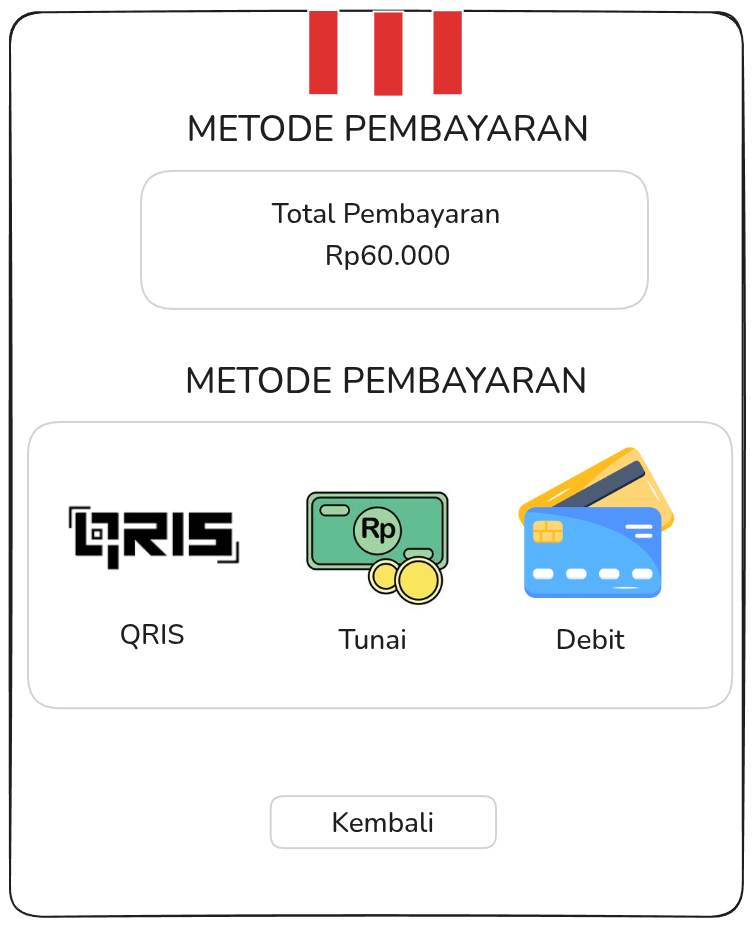
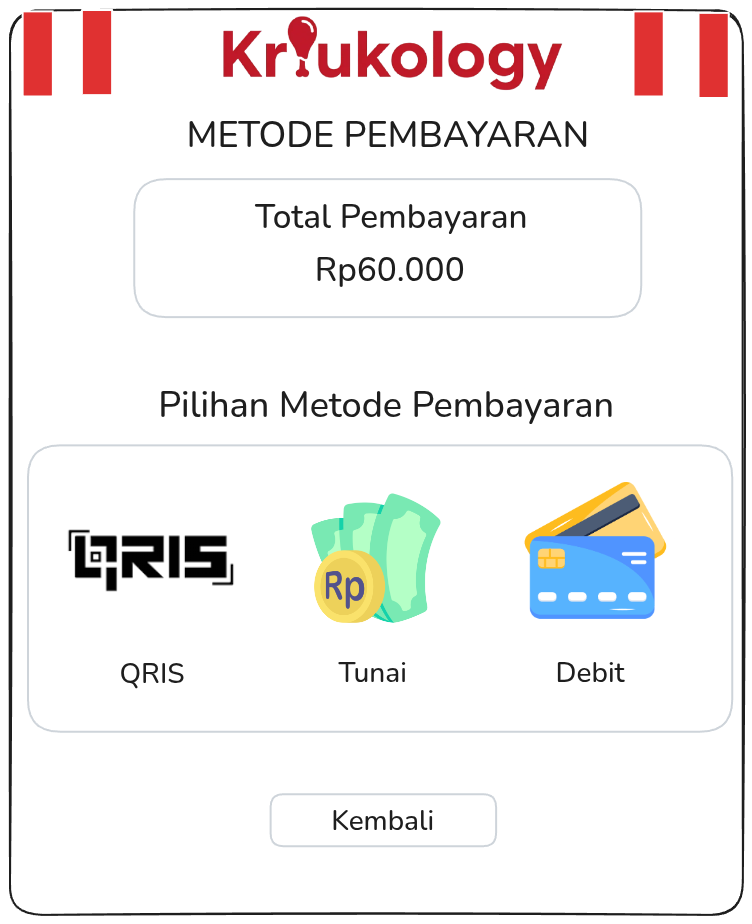
redesign halaman pembayaran

diff --git a/src/templates/pembayaran.js b/src/templates/pembayaran.js
@@ -4,62 +4,57 @@
  * ==========================================================================
  * Layar pemilihan metode pembayaran Kiosk Kriukology.
  * 100% Mengikuti Sketsa Layout Layar Pembayaran dari pengguna:
- * 1. Header Belang Logo Konsisten
- * 2. Judul METODE PEMBAYARAN
- * 3. Card Total Pembayaran (Soft Shadow White Card)
- * 4. Judul METODE PEMBAYARAN
- * 5. Card 3 Pilihan Metode (QRIS, Tunai, Debit)
- * 6. Tombol Kembali
+ * 1. Header Belang + Judul (identik halaman keranjang)
+ * 2. Card Total Pembayaran (Soft Shadow White Card, tanpa outline solid)
+ * 3. Judul Pilihan Metode Pembayaran
+ * 4. Card 3 Pilihan Metode (QRIS, Tunai, Debit) dengan gambar besar
+ * 5. Tombol Kembali (ikon panah merah seperti sidebar menu)
  * ==========================================================================
  */
 
 const templatePembayaran = `
-<div data-screen="pembayaran" style="display:none" class="h-full flex flex-col bg-[#f7f1e8] relative overflow-hidden">
+<div data-screen="pembayaran" style="display:none" class="h-full flex flex-col bg-white relative overflow-hidden">
 
-  <!-- 1. Header: Belang Kiri | Banner Logo Tengah (Putih) | Belang Kanan -->
-  <header class="shrink-0 h-[64px] flex items-stretch relative z-10 shadow-xs">
-    <!-- Sayap Kiri Belang -->
-    <div class="header-belang w-16 sm:w-20 shrink-0"></div>
-
-    <!-- Tengah Putih + Banner Logo -->
-    <div class="flex-1 bg-white flex items-center justify-center px-3">
-      <img src="/assets/kriukology/banner_kriukology.webp" alt="Kriukology"
-        class="h-11 max-w-[88%] object-contain drop-shadow-sm" />
+  <!-- 1. Header: identik halaman keranjang (Belang | Logo | Belang + Judul) -->
+  <header class="shrink-0">
+    <div class="h-[64px] flex items-stretch relative">
+      <div class="header-belang w-16 sm:w-20 shrink-0"></div>
+      <div class="flex-1 bg-white flex items-center justify-center px-3">
+        <img src="/assets/kriukology/banner_kriukology.webp" alt="Kriukology"
+          class="h-11 max-w-[88%] object-contain drop-shadow-sm" />
+      </div>
+      <div class="header-belang w-16 sm:w-20 shrink-0"></div>
     </div>
-
-    <!-- Sayap Kanan Belang -->
-    <div class="header-belang w-16 sm:w-20 shrink-0"></div>
+    <h1 class="display font-black text-xl sm:text-2xl text-center text-[#231f20] py-2" data-text="paymentTitle">METODE PEMBAYARAN</h1>
   </header>
 
   <!-- 2. Body Container (Memenuhi Layar, Centered Content) -->
-  <div class="flex-1 overflow-y-auto scroll-clean p-5 sm:p-6 flex flex-col items-center justify-between gap-4">
+  <div class="flex-1 min-h-0 overflow-y-auto scroll-clean px-4 sm:px-8 pt-2 pb-6 flex flex-col items-center justify-between gap-6">
 
-    <!-- Section Atas: Judul + Card Total Pembayaran -->
-    <div class="w-full flex flex-col items-center gap-2.5 mt-2">
-      <h2 class="display text-base sm:text-lg font-black tracking-wider text-[#231f20] uppercase">METODE PEMBAYARAN</h2>
-      
-      <!-- Card Total Pembayaran (Clean Soft Shadow, White Card) -->
-      <div class="w-full bg-white rounded-2xl py-5 px-4 text-center shadow-[0_8px_24px_rgba(42,36,36,0.06)] border border-stone-100">
-        <p class="text-xs sm:text-sm font-semibold text-stone-600">Total Pembayaran</p>
-        <p class="text-2xl sm:text-3xl font-black text-[#231f20] mt-1.5 tabular-nums" data-bind="totalHargaBayar">Rp0</p>
+    <!-- Section Atas: Card Total Pembayaran (shadow, tanpa outline solid) -->
+    <div class="w-full flex flex-col items-center gap-4 mt-2">
+      <div class="w-full bg-white rounded-3xl py-7 px-5 text-center shadow-[0_14px_36px_rgba(42,36,36,0.10)]">
+        <p class="text-base sm:text-lg font-bold text-stone-500" data-text="paymentTotalLabel">Total Pembayaran</p>
+        <p class="text-xl sm:text-2xl font-black text-[#231f20] mt-2 tabular-nums" data-bind="totalHargaBayar">Rp0</p>
       </div>
     </div>
 
     <!-- Section Tengah: Judul + Card 3 Pilihan Metode Pembayaran -->
-    <div class="w-full flex flex-col items-center gap-2.5">
-      <h2 class="display text-base sm:text-lg font-black tracking-wider text-[#231f20] uppercase">METODE PEMBAYARAN</h2>
-      
+    <div class="w-full flex flex-col items-center gap-4">
+      <h2 class="display text-xl sm:text-2xl font-black tracking-wide text-[#231f20] text-center" data-text="paymentMethodsHeading">Pilihan Metode Pembayaran</h2>
+
       <!-- Container 3 Metode Pembayaran (QRIS, Tunai, Debit) -->
-      <div class="w-full bg-white rounded-2xl p-4 sm:p-5 shadow-[0_8px_24px_rgba(42,36,36,0.06)] border border-stone-100">
-        <div class="grid grid-cols-3 gap-3" data-list="metodePembayaran"></div>
+      <div class="w-full bg-white rounded-3xl p-4 sm:p-6 shadow-[0_14px_36px_rgba(42,36,36,0.10)]">
+        <div class="grid grid-cols-3 gap-3 sm:gap-4" data-list="metodePembayaran"></div>
       </div>
     </div>
 
-    <!-- Section Bawah: Tombol Kembali -->
-    <div class="w-full flex justify-center pt-2 pb-2">
+    <!-- Section Bawah: Tombol Kembali (ikon panah merah seperti sidebar menu) -->
+    <div class="w-full flex justify-center pt-1 pb-2">
       <button data-action="navigasiKe:keranjang"
-        class="w-48 h-11 rounded-2xl bg-white hover:bg-stone-50 active:scale-[0.98] transition border border-stone-200 font-bold text-xs sm:text-sm text-stone-700 shadow-[0_4px_16px_rgba(42,36,36,0.06)] flex items-center justify-center gap-2">
-        <span data-text="back">Kembali</span>
+        class="h-12 px-7 rounded-2xl bg-white hover:bg-stone-50 active:scale-[0.98] transition shadow-[0_8px_24px_rgba(42,36,36,0.08)] flex items-center justify-center gap-2.5">
+        <i class="fa-solid fa-arrow-left text-[#d51f32] text-sm shrink-0 w-4 text-center"></i>
+        <span class="text-xs sm:text-sm font-bold text-stone-700" data-text="back">Kembali</span>
       </button>
     </div>
 

diff --git a/src/components/kiosk.js b/src/components/kiosk.js
@@ -511,43 +511,19 @@ class KioskApp {
   buatHTMLMetodePembayaran(metode) {
     const aktif = this.metodePembayaran === metode.id
     const kelasAktif = aktif
-      ? 'bg-red-50/90 border-[#d51f32] text-[#d51f32] shadow-md ring-2 ring-[#d51f32]/25 scale-[1.03]'
-      : 'bg-stone-50/40 hover:bg-stone-50 border-stone-100 text-[#231f20] hover:shadow-sm'
+      ? 'bg-red-50/70 text-[#d51f32] shadow-[0_10px_24px_rgba(213,31,50,0.16)] ring-2 ring-[#d51f32]/30 scale-[1.03]'
+      : 'bg-white text-[#231f20] hover:bg-stone-50 shadow-[0_6px_18px_rgba(42,36,36,0.07)] hover:shadow-[0_10px_24px_rgba(42,36,36,0.10)]'
 
-    let visualIcon = ''
-    if (metode.id === 'qris') {
-      visualIcon = `<div class="h-16 flex items-center justify-center">
-        <div class="px-2.5 py-1 bg-[#231f20] text-white font-black text-sm tracking-tighter rounded-md flex items-center gap-1 border border-stone-700 shadow-xs">
-          <i class="fa-solid fa-qrcode text-base text-[#d51f32]"></i>
-          <span>QRIS</span>
-        </div>
-      </div>`
-    } else if (metode.id === 'cash') {
-      visualIcon = `<div class="h-16 flex items-center justify-center relative">
-        <div class="w-12 h-8 rounded-md bg-emerald-100 border border-emerald-500 flex items-center justify-center shadow-xs">
-          <span class="text-[10px] font-black text-emerald-800">Rp</span>
-        </div>
-        <div class="absolute -bottom-1 -right-1 w-6 h-6 rounded-full bg-amber-400 border border-amber-500 flex items-center justify-center shadow-xs">
-          <span class="text-[9px] font-bold text-amber-950">$</span>
-        </div>
-      </div>`
-    } else if (metode.id === 'debit') {
-      visualIcon = `<div class="h-16 flex items-center justify-center relative">
-        <div class="w-12 h-8 rounded-lg bg-amber-400 border border-amber-500 transform -rotate-12 absolute shadow-xs"></div>
-        <div class="w-12 h-8 rounded-lg bg-sky-500 border border-sky-600 flex flex-col justify-between p-1 shadow-md relative z-10">
-          <div class="w-2.5 h-2 bg-amber-300 rounded-xs"></div>
-          <div class="flex justify-between items-center text-[7px] text-white">
-            <span>••••</span>
-          </div>
-        </div>
-      </div>`
-    }
+    const gambar = `/assets/${metode.id}.png`
 
     return `
       <button data-action="setMetodePembayaran:${metode.id}"
-        class="rounded-xl p-3 flex flex-col items-center justify-between text-center transition-all duration-200 border cursor-pointer ${kelasAktif}">
-        ${visualIcon}
-        <span class="text-xs sm:text-sm font-extrabold tracking-wide mt-2">${metode.label}</span>
+        class="rounded-2xl px-2 py-4 sm:py-5 flex flex-col items-center gap-3 text-center transition-all duration-200 cursor-pointer ${kelasAktif}">
+        <span class="h-24 sm:h-28 w-full flex items-center justify-center">
+          <img src="${gambar}" alt="${metode.label}" loading="lazy"
+            class="max-h-full max-w-full object-contain drop-shadow-sm" />
+        </span>
+        <span class="text-base sm:text-lg font-extrabold tracking-wide">${metode.label}</span>
       </button>`
   }
 
@@ -690,12 +666,6 @@ class KioskApp {
       wadahMetode.innerHTML = daftarMetodePembayaran
         .map(metode => this.buatHTMLMetodePembayaran(metode))
         .join('')
-    }
-
-    // Perbarui status tombol simulasi selesaikan pembayaran
-    const tombolSimulasi = el.querySelector('[data-bind="simulateBtn"]')
-    if (tombolSimulasi) {
-      tombolSimulasi.disabled = !this.metodePembayaran
     }
   }
 

diff --git a/src/data/kamus.js b/src/data/kamus.js
@@ -42,6 +42,9 @@ const kamus = {
     finish: 'Selesaikan pesanan',
     more: 'Tambah pesanan',
     payment: 'Pilih cara bayarmu',
+    paymentTitle: 'METODE PEMBAYARAN',
+    paymentTotalLabel: 'Total Pembayaran',
+    paymentMethodsHeading: 'Pilihan Metode Pembayaran',
     simulate: 'Simulasi sukses',
     thank: 'Terima kasih!',
     processing: 'Pesananmu sedang diproses',
@@ -92,6 +95,9 @@ const kamus = {
     finish: 'Finish order',
     more: 'Add more items',
     payment: 'Choose payment method',
+    paymentTitle: 'PAYMENT METHOD',
+    paymentTotalLabel: 'Total Payment',
+    paymentMethodsHeading: 'Choose Payment Method',
     simulate: 'Simulate success',
     thank: 'Thank you!',
     processing: 'Your order is being prepared',
